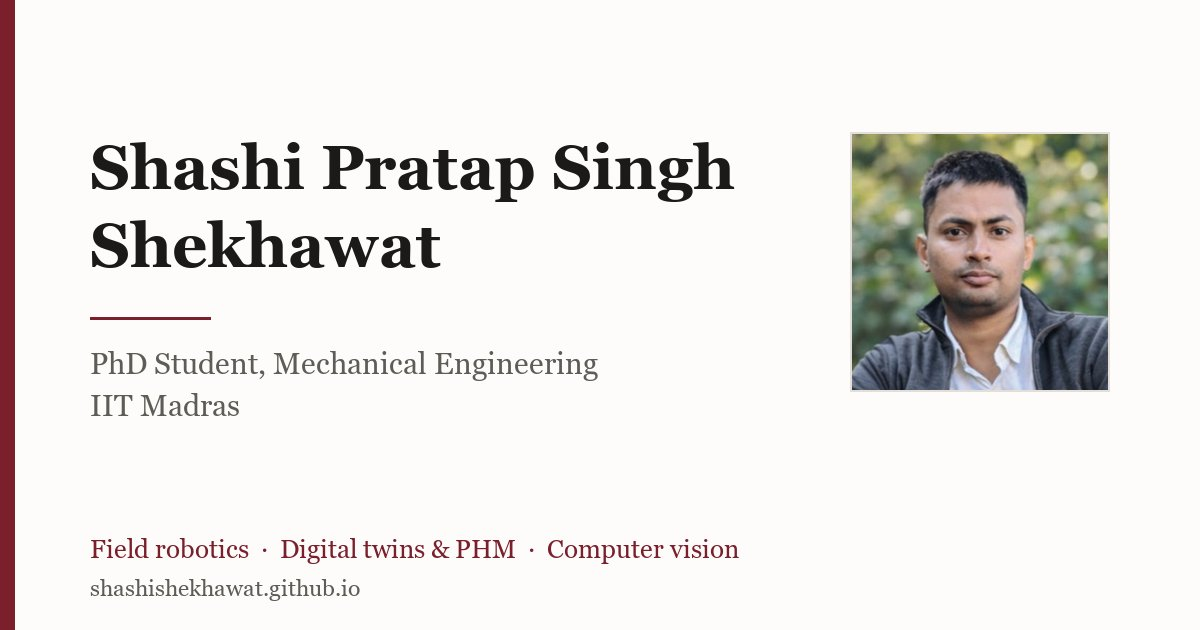
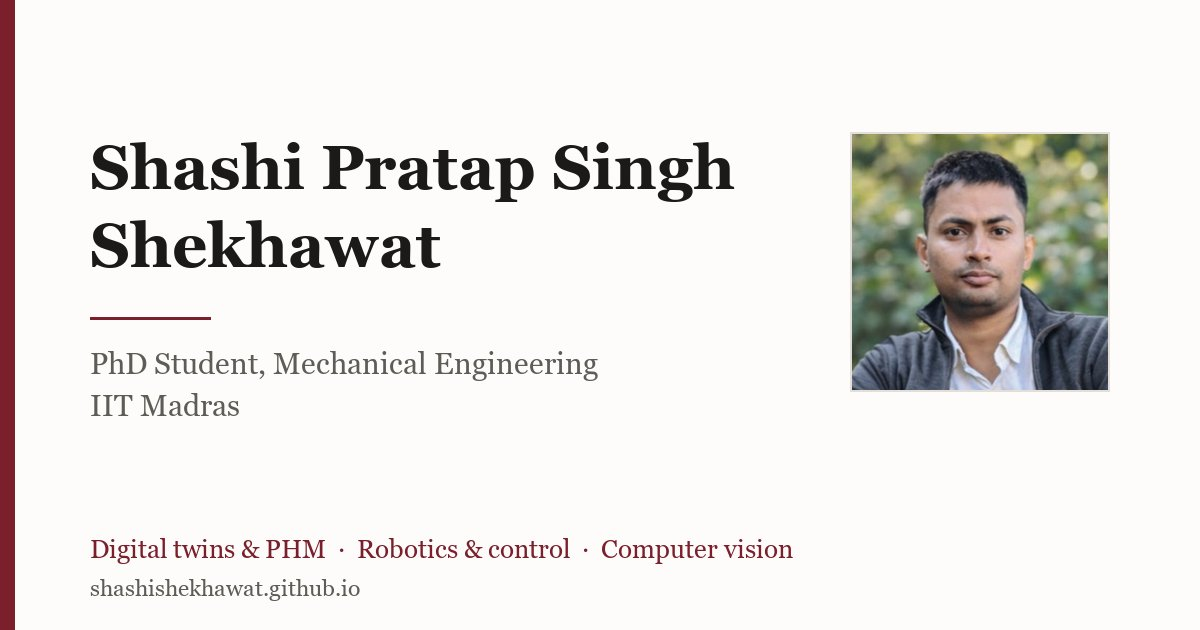
Refocus site on digital twins, PHM, and manufacturing
Remove agriculture as the stated research direction: rewrite the
intro, the "open to" block, the research areas, the meta description,
JSON-LD keywords, and the preview card. Replace the field-robotics
area with robotics/automation/control.

The factual record stays: degree names, the awarding university, and
the verbatim filed patent titles. Their one-line descriptions now
lead with the transferable engineering rather than the application
domain.

Changed region(s): [[0.0617, 0.8444, 0.6475, 0.9048]]

diff --git a/index.html b/index.html
@@ -4,7 +4,7 @@
 <meta charset="utf-8">
 <meta name="viewport" content="width=device-width, initial-scale=1">
 <title>Shashi Pratap Singh Shekhawat — PhD Student, Mechanical Engineering, IIT Madras</title>
-<meta name="description" content="Shashi Pratap Singh Shekhawat is a PhD student in the Manufacturing Engineering Section, Department of Mechanical Engineering, IIT Madras. Research on field and agricultural robotics, digital twins and prognostics &amp; health management, and computer vision. Two Indian patent applications filed.">
+<meta name="description" content="Shashi Pratap Singh Shekhawat is a PhD student in the Manufacturing Engineering Section, Department of Mechanical Engineering, IIT Madras. Research on digital twins and prognostics &amp; health management, robotics and control for manufacturing, and computer vision. Two Indian patent applications filed.">
 <link rel="canonical" href="https://shashishekhawat.github.io/">
 <meta name="robots" content="index, follow">
 <meta name="author" content="Shashi Pratap Singh Shekhawat">
@@ -12,7 +12,7 @@
 <meta property="og:type" content="profile">
 <meta property="og:site_name" content="Shashi Pratap Singh Shekhawat">
 <meta property="og:title" content="Shashi Pratap Singh Shekhawat — PhD Student, Mechanical Engineering, IIT Madras">
-<meta property="og:description" content="Robotics, digital twins and prognostics &amp; health management, and computer vision for machines that work in the field and on the shop floor.">
+<meta property="og:description" content="Digital twins and prognostics &amp; health management, robotics and control, and computer vision for machines on the shop floor.">
 <meta property="og:url" content="https://shashishekhawat.github.io/">
 <meta property="og:image" content="https://shashishekhawat.github.io/assets/og-card.jpg">
 <meta property="og:image:width" content="1200">
@@ -50,7 +50,7 @@
     { "@type": "CollegeOrUniversity", "name": "Indian Institute of Technology Kharagpur", "sameAs": "https://www.iitkgp.ac.in/" },
     { "@type": "CollegeOrUniversity", "name": "Maharana Pratap University of Agriculture and Technology, Udaipur" }
   ],
-  "knowsAbout": ["Field and agricultural robotics", "Digital twins", "Prognostics and health management", "Computer vision", "Data-driven modelling", "Manufacturing engineering"],
+  "knowsAbout": ["Digital twins", "Prognostics and health management", "Condition monitoring", "Robotics and control", "Computer vision", "Data-driven modelling", "Manufacturing engineering"],
   "address": {
     "@type": "PostalAddress",
     "streetAddress": "Department of Mechanical Engineering, IIT Madras",
@@ -180,16 +180,15 @@
 
 <main id="main">
 
-<p class="lede">I work on robots that have to operate outside the lab &mdash; in fields and on factory floors &mdash; and
-on the models that keep them running. My research joins <strong>computer vision</strong> and <strong>control</strong>
-with <strong>digital twins</strong> for prognostics and health management (PHM), so a machine can both perceive its
-surroundings and reason about its own condition. Before IIT Madras I completed an MTech in Farm Machinery and Power at
-IIT Kharagpur, where work on a capsicum-harvesting robot and an automated land-levelling system led to two Indian
-patent filings.</p>
+<p class="lede">I work on machines that have to keep running on a factory floor, and on the models that tell us
+when they will not. My research joins <strong>digital twins</strong> with <strong>computer vision</strong> and
+<strong>control</strong> for prognostics and health management (PHM), so a production system can sense its own
+condition, diagnose a fault, and estimate how much life is left in it. I am based in the Digital Twin of an Autonomous
+Factory Lab in the Manufacturing Engineering Section at IIT Madras.</p>
 
-<p class="ask"><strong>I am open to:</strong> collaborations in agricultural and field robotics, digital-twin and
-condition-monitoring studies of production equipment, shared datasets and benchmarks, and conversations with industry
-teams working on farm or factory automation. Email is the fastest way to reach me.</p>
+<p class="ask"><strong>I am open to:</strong> collaborations on digital twins and condition monitoring of production
+equipment, fault diagnosis and remaining-useful-life datasets and benchmarks, and conversations with industry teams
+working on factory automation and predictive maintenance. Email is the fastest way to reach me.</p>
 
 <nav class="toc" aria-label="Sections">
   <a href="#research">Research</a>
@@ -205,24 +204,23 @@ teams working on farm or factory automation. Email is the fastest way to reach m
   <h2 id="h-research" tabindex="-1">Research</h2>
 
   <div class="entry">
-    <h3>Field and agricultural robotics</h3>
-    <p class="note">Perception, manipulation, and machine design for unstructured outdoor environments &mdash;
-      selective harvesting, land preparation, and hardware that has to survive real field conditions. This is where my
-      MTech work and both patent filings sit.</p>
+    <h3>Digital twins and prognostics &amp; health management</h3>
+    <p class="note">Simulation-linked models of machines and production assets, used for condition monitoring, fault
+      diagnosis, and remaining-useful-life estimation. This is the core of my PhD work in the Digital Twin of an
+      Autonomous Factory Lab at IIT Madras.</p>
   </div>
 
   <div class="entry">
-    <h3>Digital twins and prognostics &amp; health management</h3>
-    <p class="note">Simulation-linked models of machines and production assets, used for condition monitoring, fault
-      diagnosis, and remaining-useful-life estimation. My current work sits in the Digital Twin of an Autonomous
-      Factory Lab at IIT Madras.</p>
+    <h3>Robotics, automation, and control</h3>
+    <p class="note">Sensing, actuation, and control for automated systems &mdash; the machine side of the digital
+      twin, from instrumentation and measurement to the design of the hardware being modelled.</p>
   </div>
 
   <div class="entry">
     <h3>Computer vision and data-driven modelling</h3>
     <p class="note">Vision pipelines and learned models that hold up under real illumination, clutter, and sensor
-      noise &mdash; from crop and object detection to signal- and image-based methods for extracting structure from
-      measurement data.</p>
+      noise &mdash; object detection and inspection, and signal- and image-based methods for extracting structure
+      from measurement data.</p>
   </div>
 
   <!-- METHODS &amp; TOOLS - the industry reviewer ranked this the single highest-impact addition for non-academic
@@ -284,19 +282,19 @@ teams working on farm or factory automation. Email is the fastest way to reach m
     <li>R. Machavaram, V. Sreenath, <span class="self">S. P. S. Shekhawat</span>, Ambuj, and V. Sreehari.
       &ldquo;System and Method for Automated Land-Levelling of Field.&rdquo;
       Indian Patent Application No. 202641018323, filed February 2026. <span class="status">Filed</span>
-      <p class="note">A sensing and control method for levelling agricultural fields automatically, aimed at reducing
-        the operator skill and the number of passes a conventional levelling operation needs.</p></li>
+      <p class="note">A sensing and control method for automated levelling, aimed at reducing the operator skill and
+        the number of passes the conventional operation needs.</p></li>
 
     <li>A. Paul, R. Machavaram, <span class="self">S. P. S. Shekhawat</span>, and Y. R. Harishchandre.
       &ldquo;Robotic Harvester Cart with Integrated Storage and Articulated Arm for Capsicum Harvesting.&rdquo;
       Indian Design Application No. 458370-001, filed 2025. <span class="status">Design &middot; Filed</span>
-      <p class="note">A mobile harvesting platform that combines an articulated picking arm with on-board produce
-        storage for selective capsicum harvesting.</p></li>
+      <p class="note">A mobile platform combining an articulated arm with on-board storage, for selective
+        pick-and-place under unstructured conditions.</p></li>
   </ol>
   <!-- Status says "Filed", not "granted" - keep it that way until a grant number exists, then update the tag.
-       The one-line notes are deliberately plain: sharpen them with your own technical detail (what is novel,
-       what you personally built, what stage the prototype reached). A photo of the harvester cart here would be
-       the single most persuasive thing on this page for an industry reader. -->
+       The invention titles are the filed legal titles and cannot be reworded, but the one-line notes under them
+       are yours: sharpen them with the transferable technical detail (sensing, control, mechanism design) rather
+       than the application domain. -->
 </section>
 
 <section id="teaching" aria-labelledby="h-teaching">
@@ -328,7 +326,7 @@ teams working on farm or factory automation. Email is the fastest way to reach m
     <p class="date">Jul 2023 &mdash; Apr 2025</p>
     <h3>MTech, Farm Machinery and Power</h3>
     <p class="where">Indian Institute of Technology Kharagpur</p>
-    <p class="note">Field robotics, optimisation, computer vision, and machine design.</p>
+    <p class="note">Robotics, optimisation, computer vision, and machine design.</p>
     <!-- Strongly recommended: add your MTech thesis title, advisor, and a PDF link - it is your largest completed
          piece of research and it is currently invisible on this page. -->
   </div>
